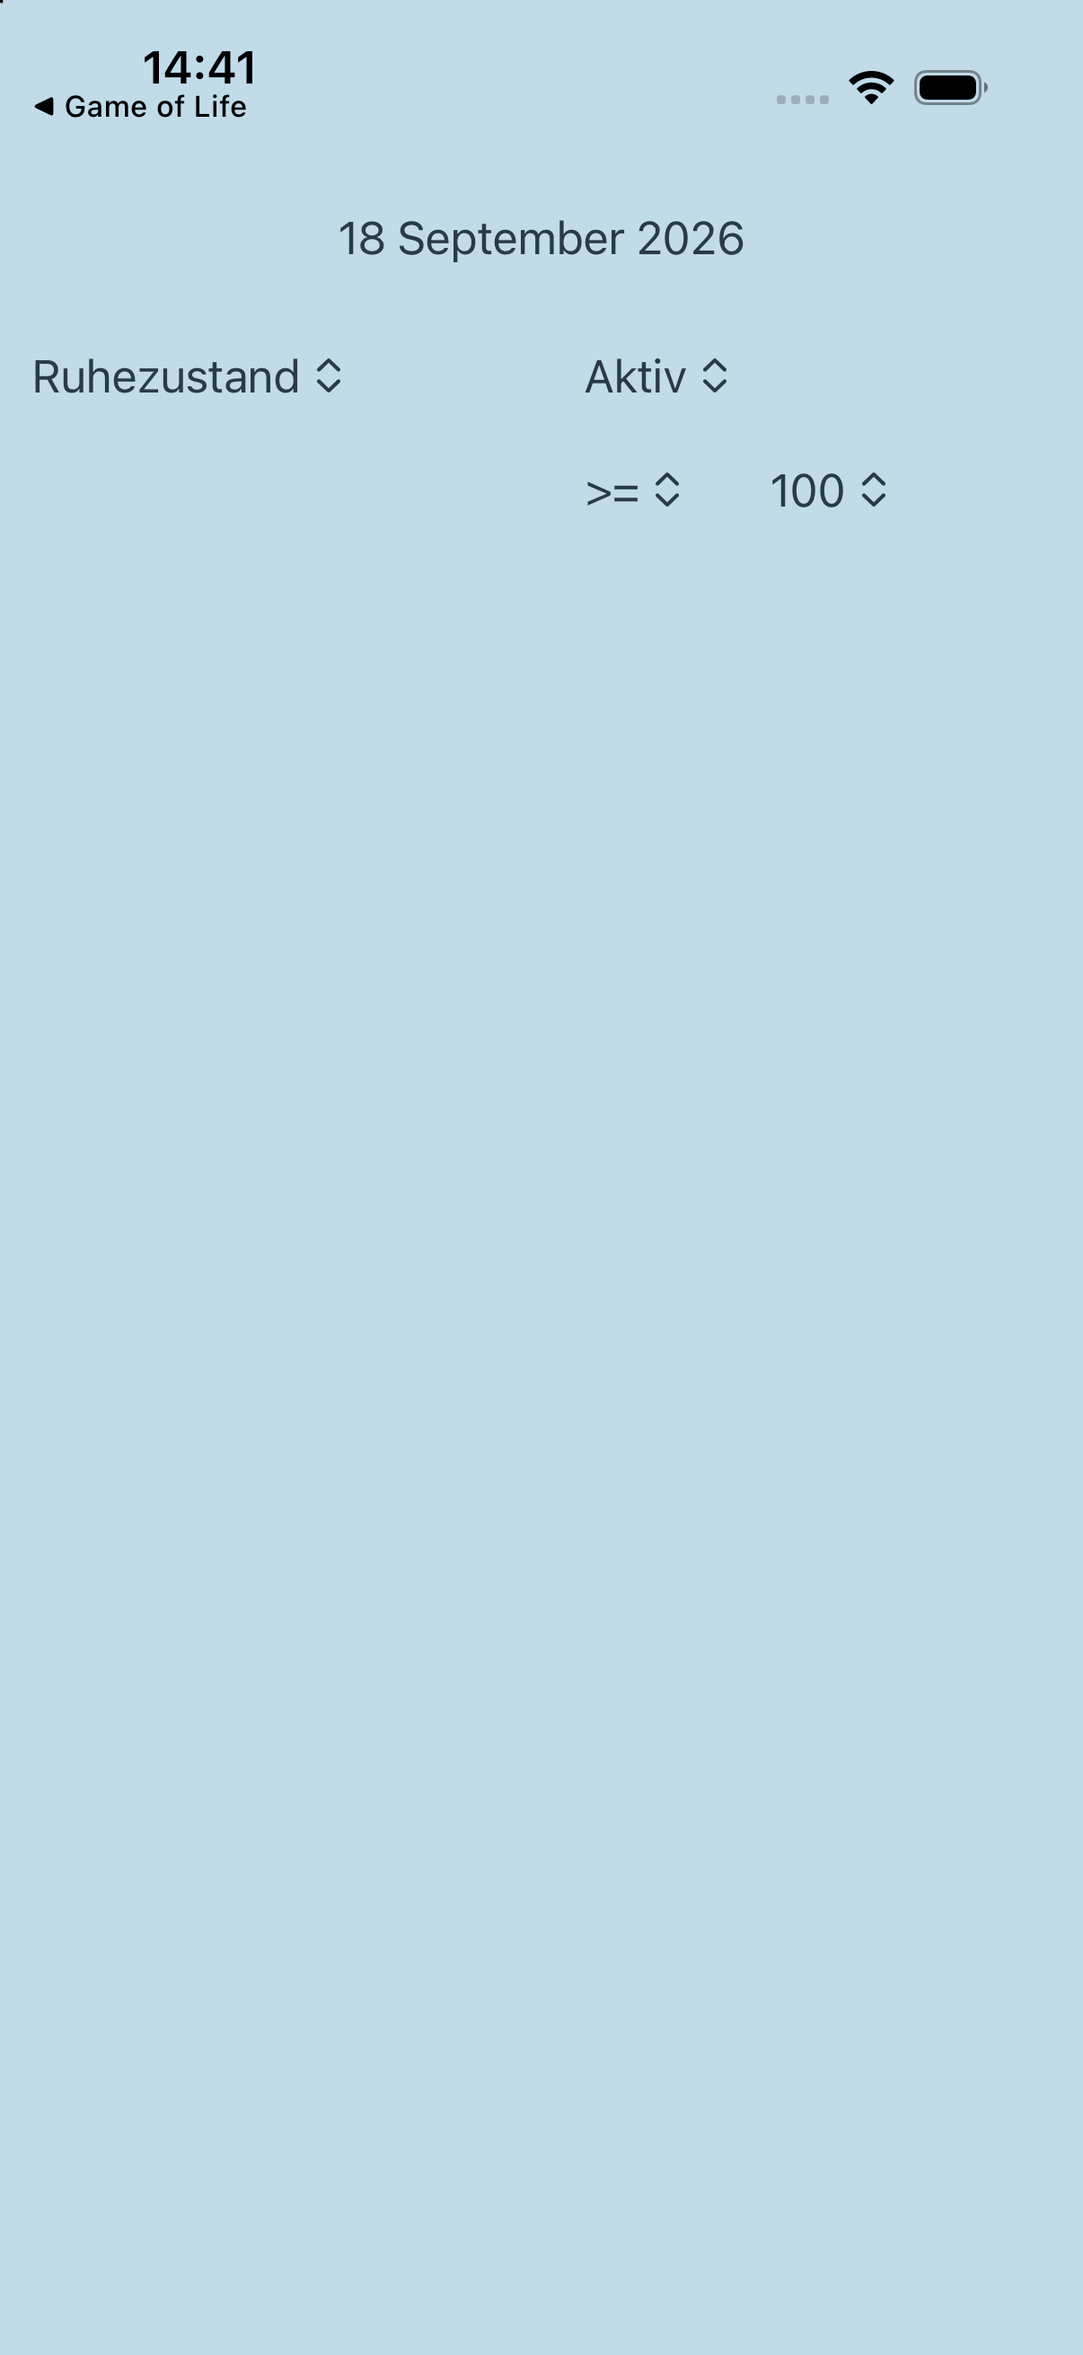
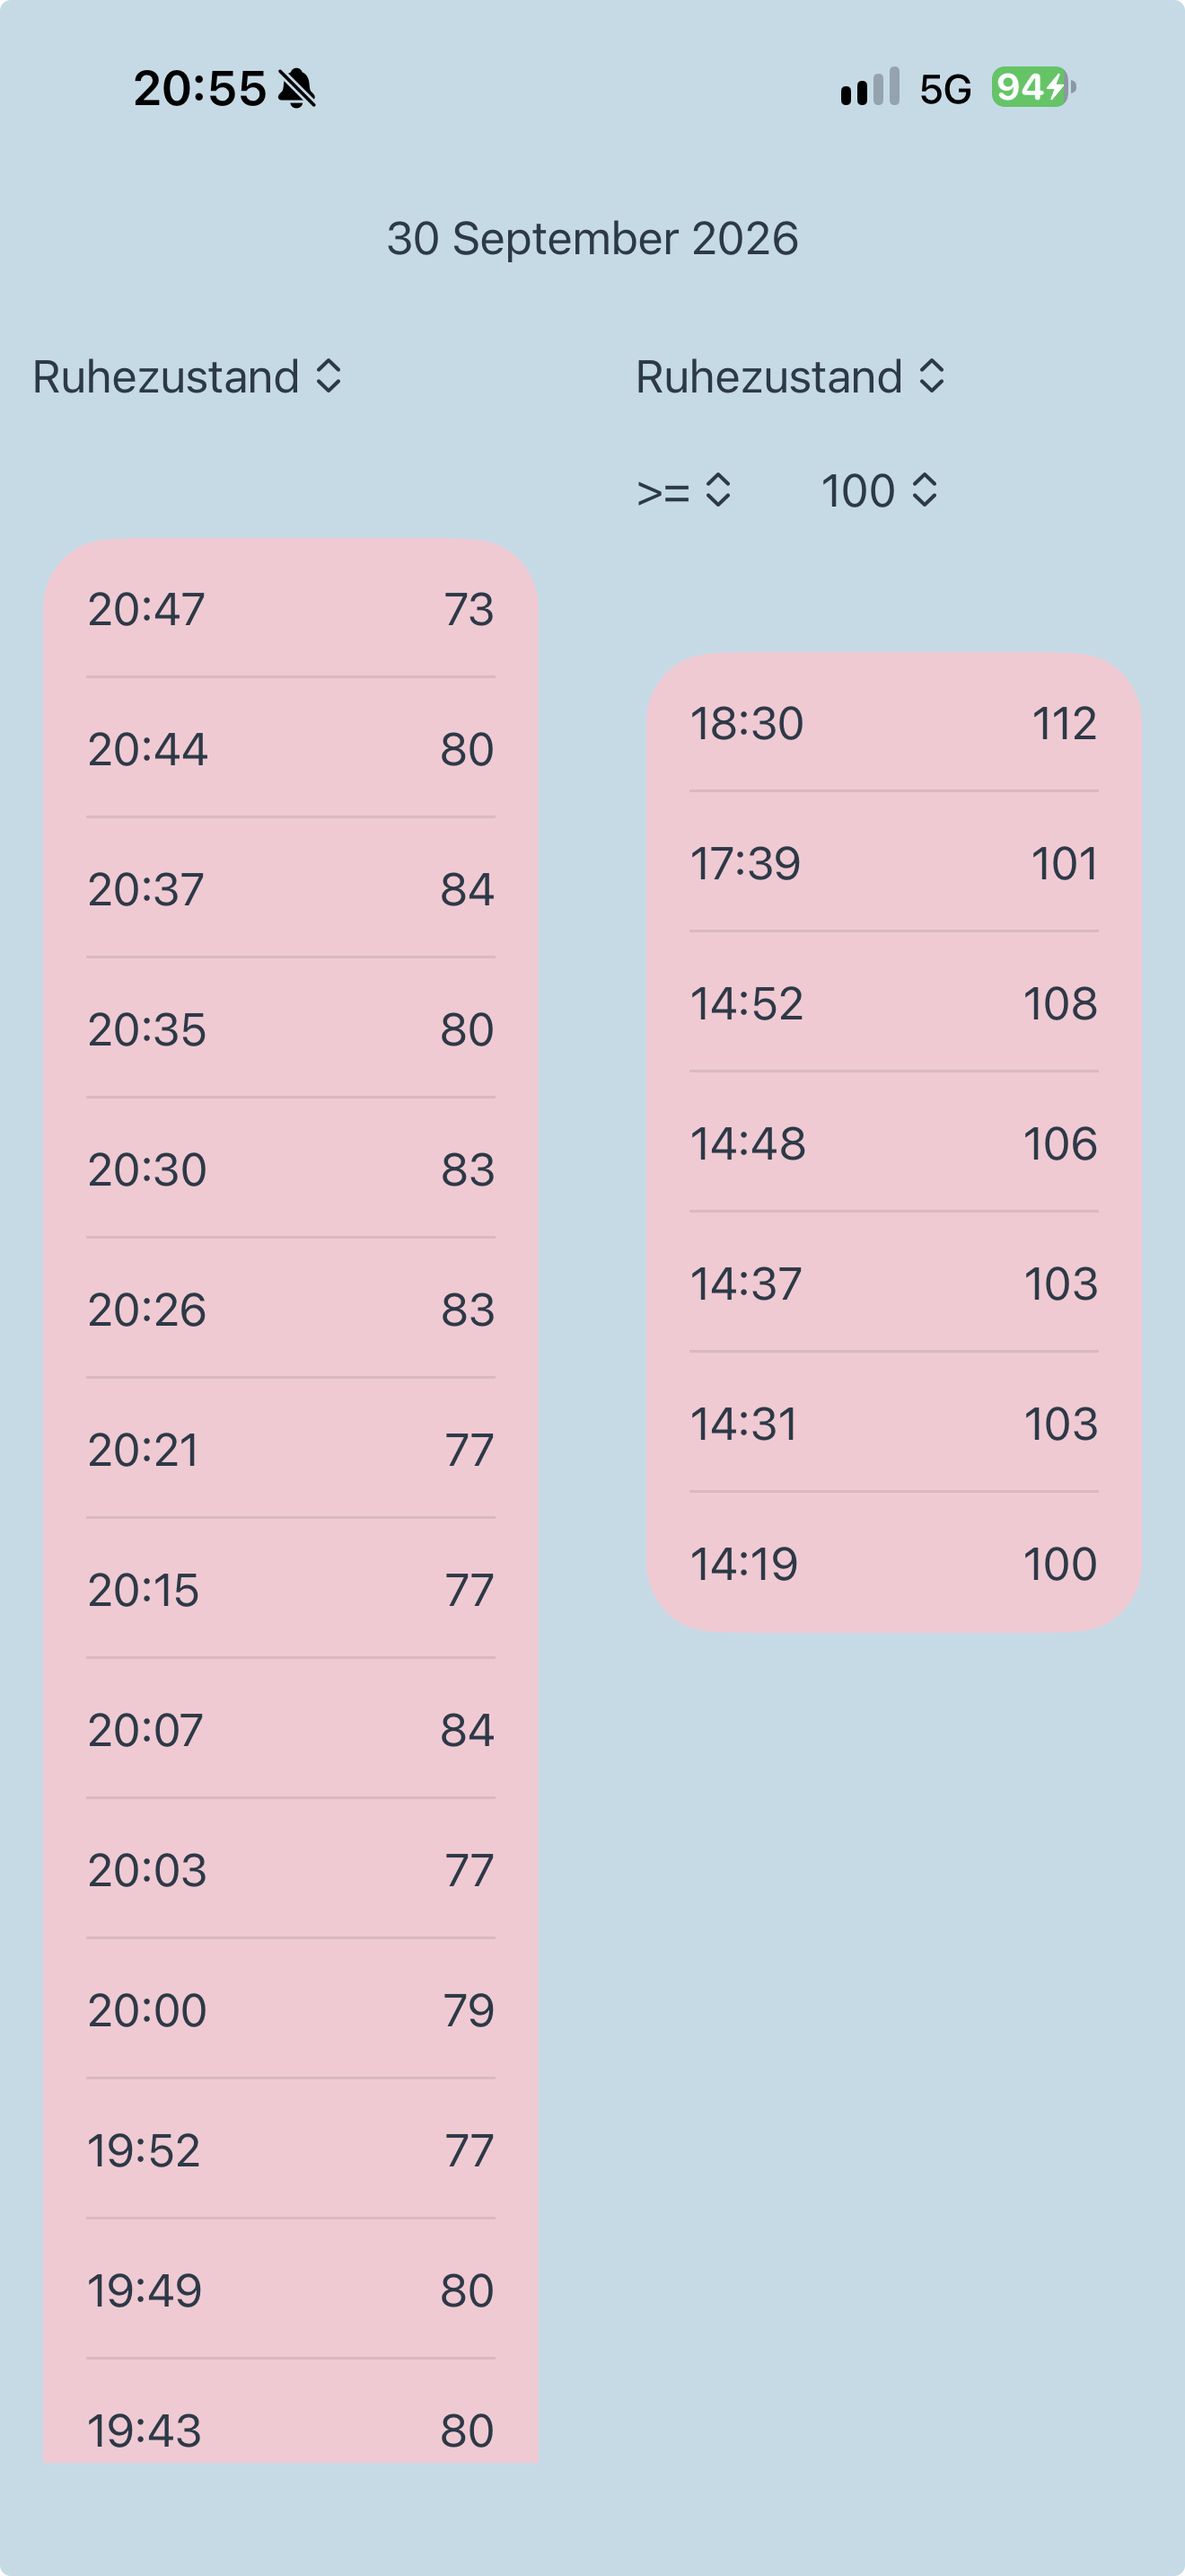
update projects and add title

diff --git a/portfolio/src/sections/Projects.tsx b/portfolio/src/sections/Projects.tsx
@@ -18,11 +18,20 @@ function Projects({ t }: { t: Translation }) {
     },
     {
       id: 2,
+      image: "src/assets/images/health_but_better.png",
       progress: 3,
       title: t.project2title,
       summary: t.project2summary,
       github: "https://github.com/smuffels/health_but_better",
       techstack: "swift",
+    },
+    {
+      id: 3,
+      progress: 4,
+      title: t.project3title,
+      summary: t.project3summary,
+      github: "https://github.com/smuffels/portfolio",
+      techstack: "react, tailwind css, vite",
     },
   ];
 
@@ -48,12 +57,19 @@ function Projects({ t }: { t: Translation }) {
           <AiFillCaretLeft className="size-6 group-hover:text-elementbg" />
         </button>
 
-        {/* Project middle */}
-        <ProjectCards
-          project={current}
-          className="border-2"
-          isActive
-        ></ProjectCards>
+        <div className="relative">
+          {/* title */}
+          <div className="absolute -top-16 w-92 h-12 rounded-lg bg-elementbg text-highlight flex items-center justify-center font-title border-2 border-default">
+            {current.title}
+          </div>
+
+          {/* Project middle */}
+          <ProjectCards
+            project={current}
+            className="border-2"
+            isActive
+          ></ProjectCards>
+        </div>
 
         {/* button right */}
         <button

diff --git a/portfolio/src/data/translations.tsx b/portfolio/src/data/translations.tsx
@@ -12,6 +12,8 @@ export const translations = {
     project1summary: "das ist das spiel game of life",
     project2title: "Health but better",
     project2summary: "wow so gesund",
+    project3title: "Portfolio",
+    project3summary: "das ist meine Portfolio Webseite",
   },
   en: {
     home: "Home",
@@ -26,6 +28,8 @@ export const translations = {
     project1summary: "this is the game game of life",
     project2title: "Health but better",
     project2summary: "wow so health so good",
+    project3title: "Portfolio",
+    project3summary: "this is my portfolio website",
   },
 };
 
